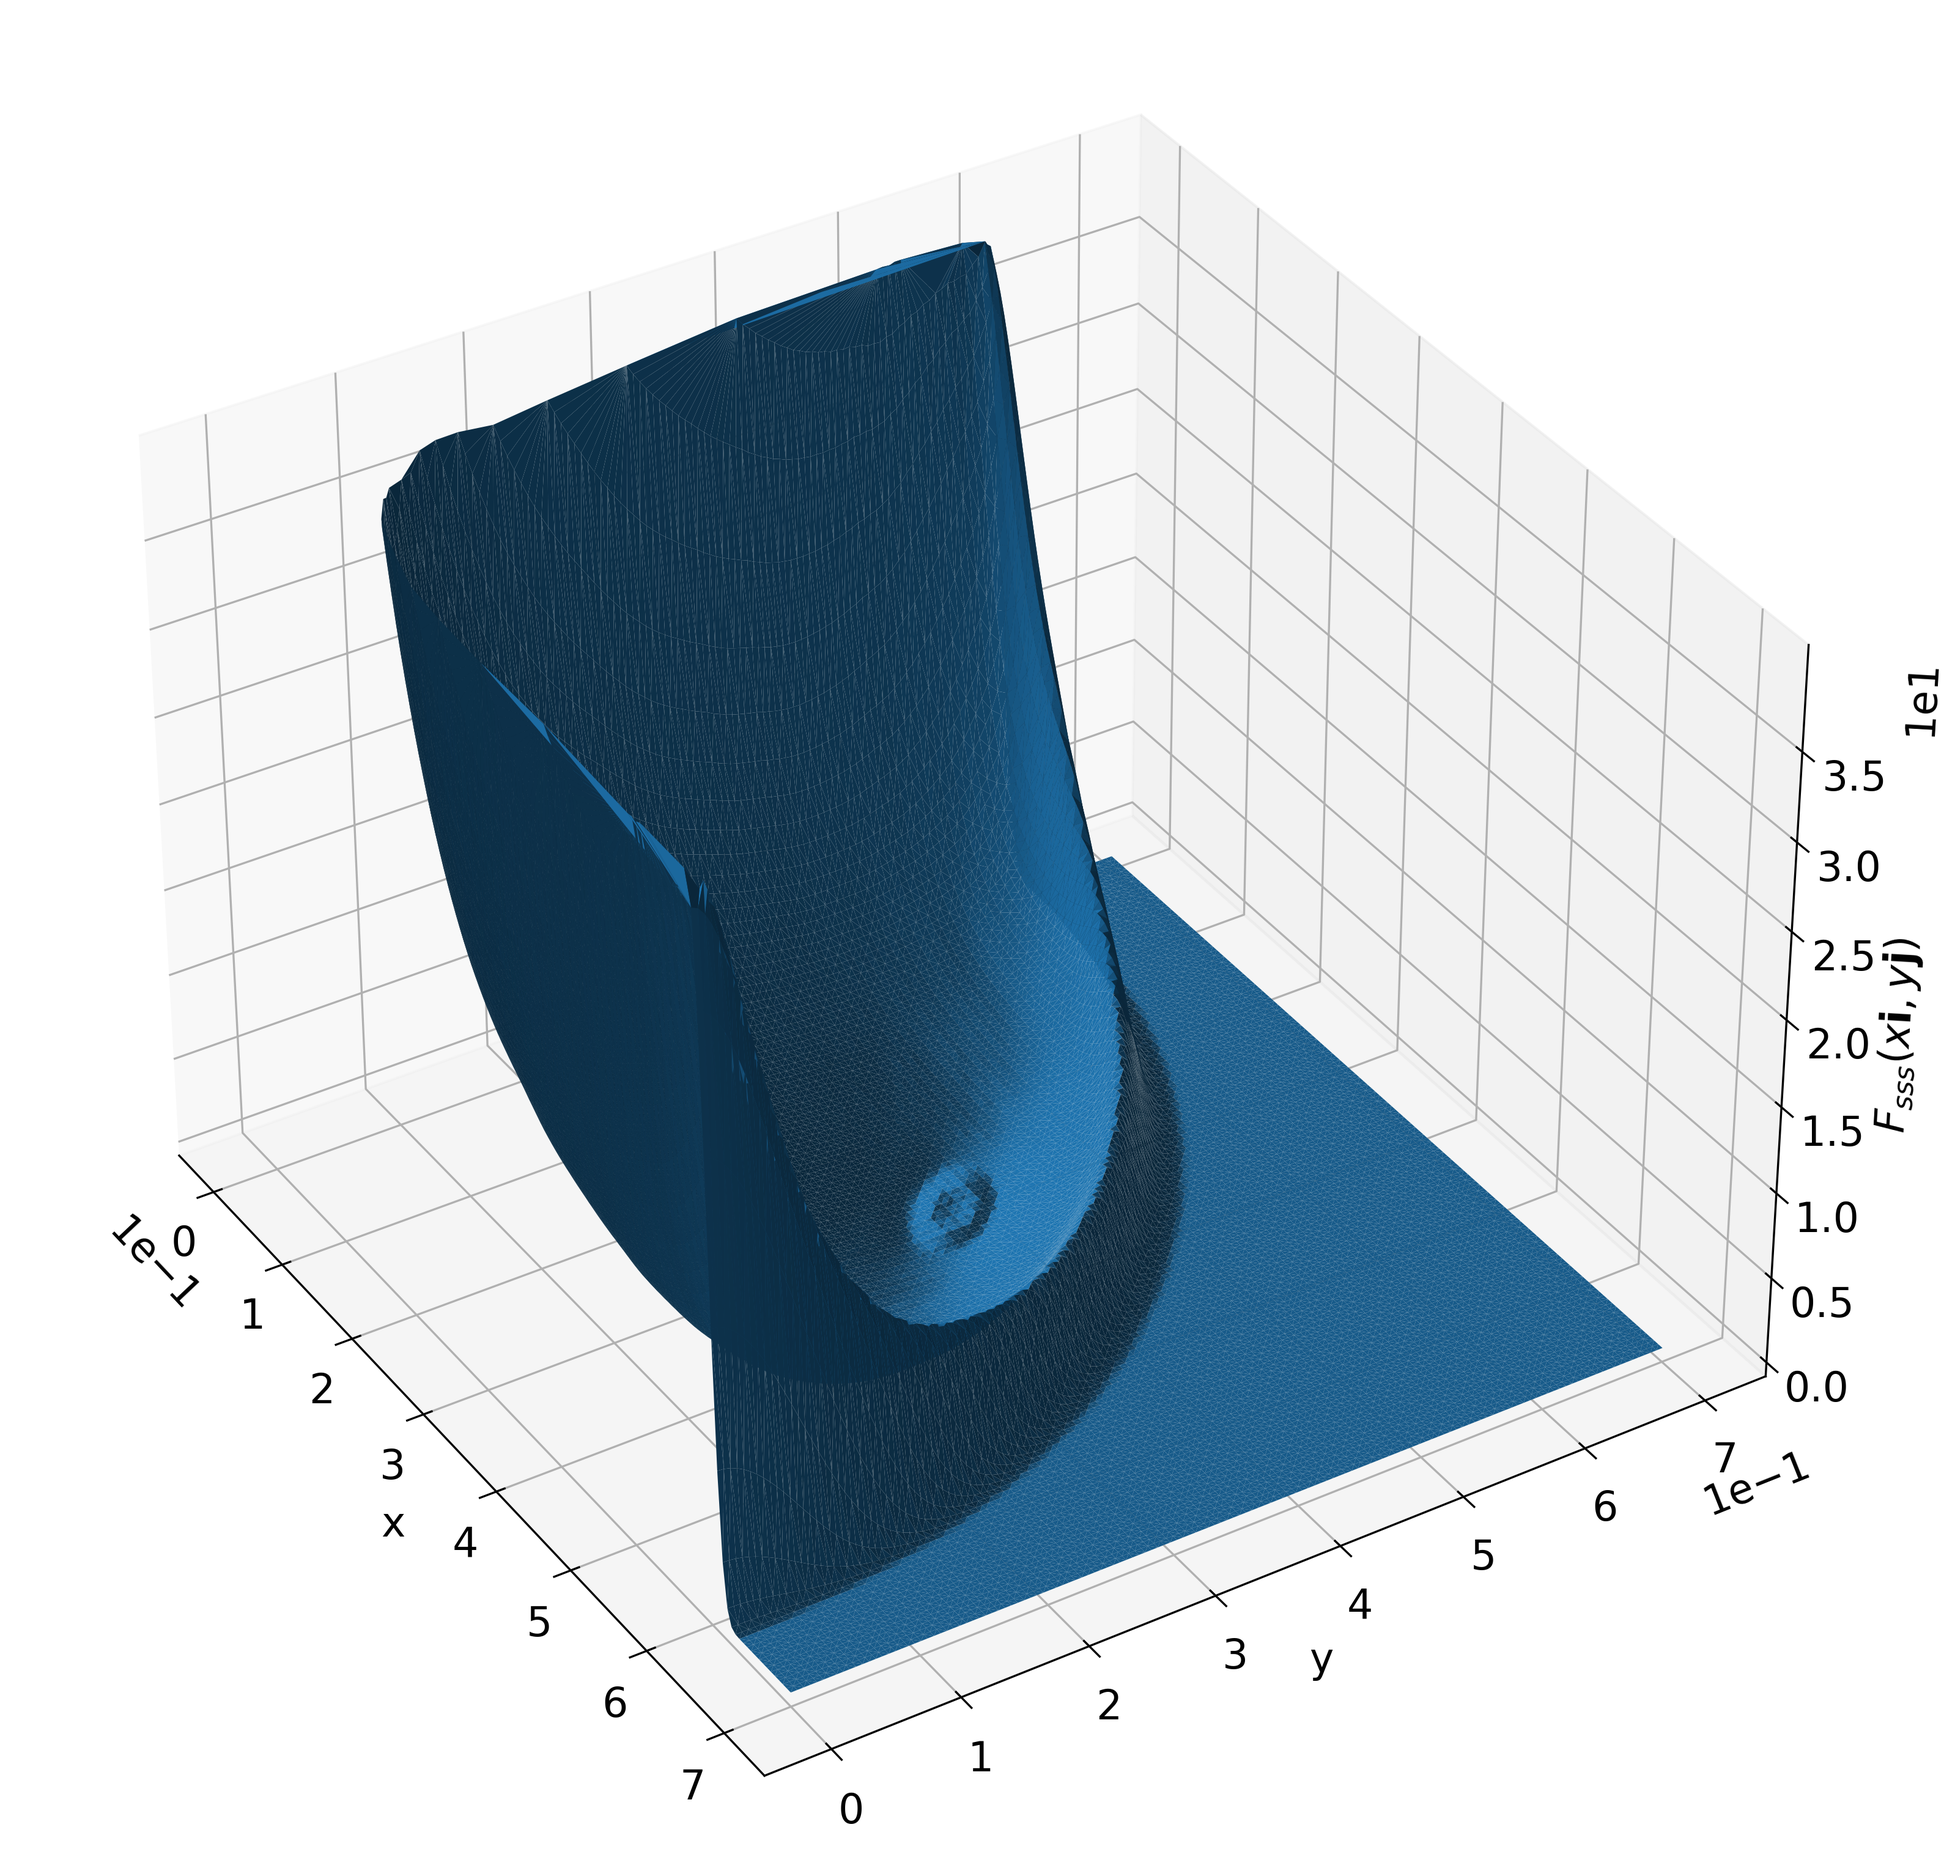
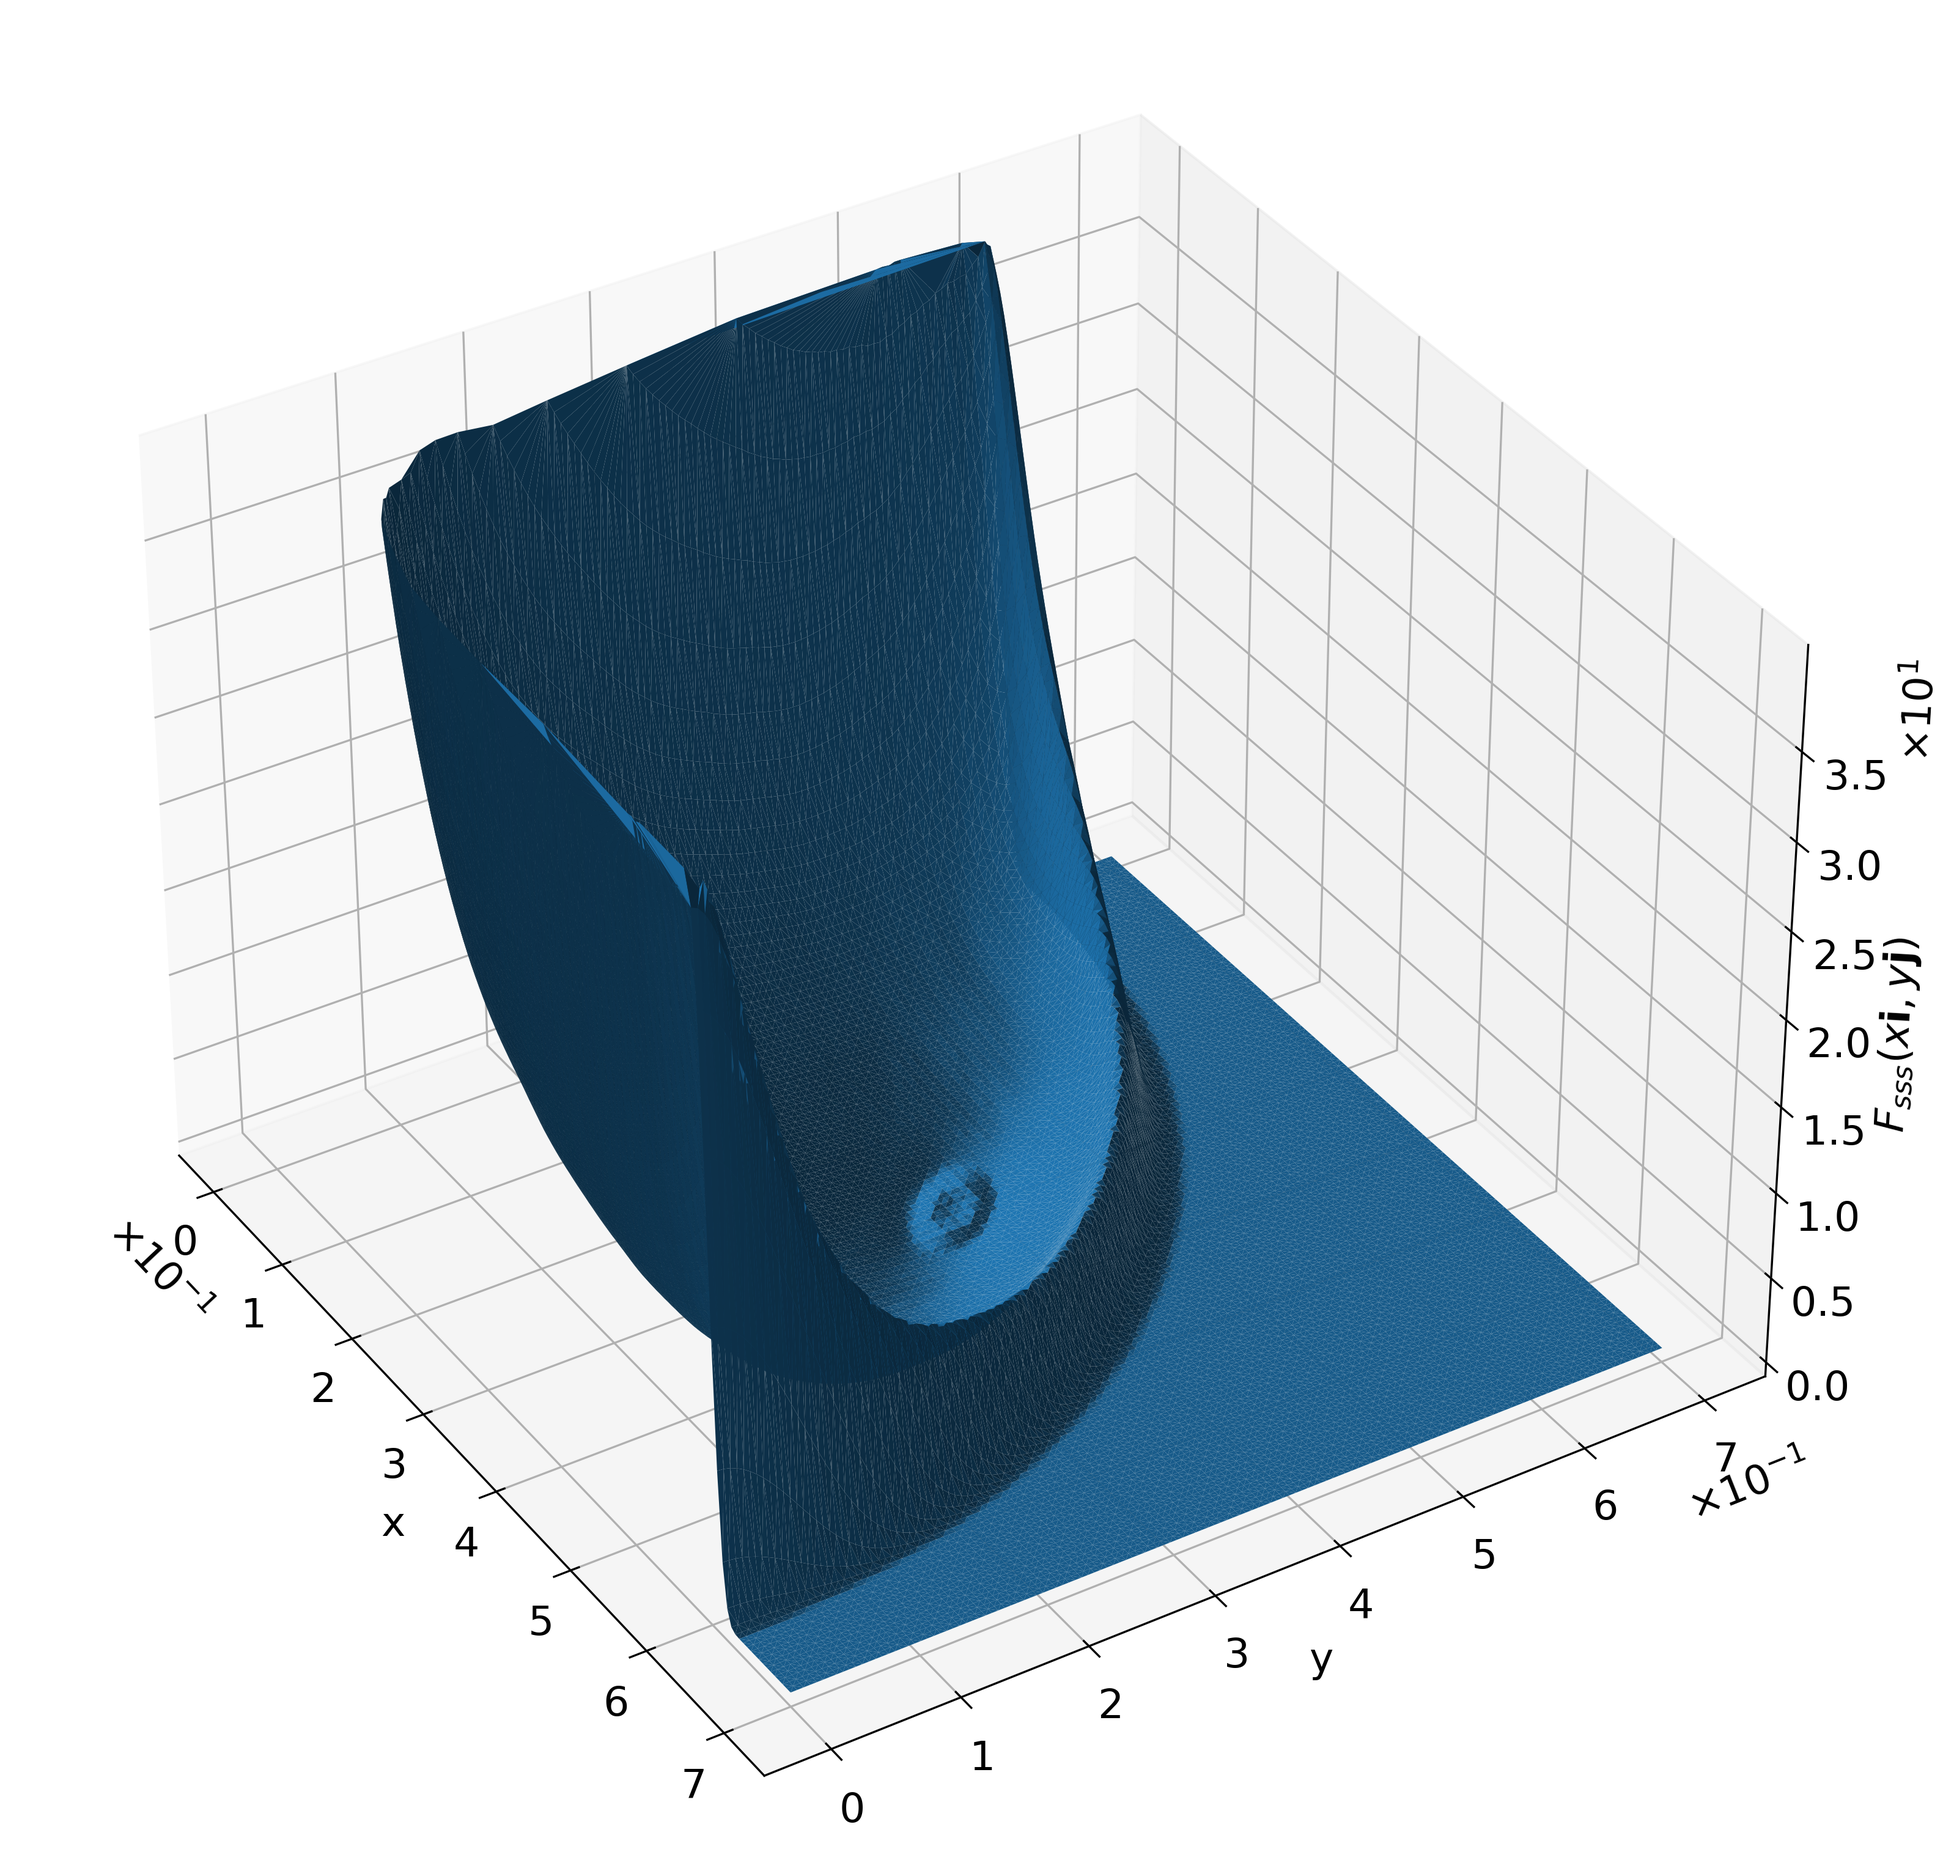
Update plots

diff --git a/paper.tex b/paper.tex
@@ -747,11 +747,11 @@ with different resolution with a theory is shown on \cref{fig:fss-disk}.
     \includegraphics[width=0.45\linewidth]{images/fss-disk-3x3.png}
     \label{fig:fss-disk-3x3}}
   \hfill
-  \subfigure[$5\times 5$ kernel $H'$]{
+  \subfigure[$7\times 7$ kernel $H'$]{
     \includegraphics[width=0.45\linewidth]{images/fss-disk-5x5.png}
     \label{fig:fss-disk-5x5}}
   \caption[]{Plot of surface-surface function for a disk with radius
-    $R = 0.334$. Resolution of the image varies from $100\times 100$ pixels to
+    $R = 0.0334$. Resolution of the image varies from $100\times 100$ pixels to
     $3100\times 3100$.}
   \label{fig:fss-disk}
 \end{figure*}
@@ -800,7 +800,7 @@ comparison is on \cref{fig:fss-blob}.
     \includegraphics[width=0.45\linewidth]{images/fss-blob-3x3.png}
     \label{fig:fss-blob-3x3}}
   \hfill
-  \subfigure[$5\times 5$ kernel $H'$]{
+  \subfigure[$7\times 7$ kernel $H'$]{
     \includegraphics[width=0.45\linewidth]{images/fss-blob-5x5.png}
     \label{fig:fss-blob-5x5}}
   \caption[]{Plot of the surface-surface function for the blob on
@@ -834,7 +834,7 @@ comparison between two algorithms is on \cref{fig:fss-ellipses}.
     \includegraphics[width=0.45\linewidth]{images/fss-ellipses-3x3.png}
     \label{fig:fss-ellipses-3x3}}
   \hfill
-  \subfigure[$5\times 5$ kernel $H'$]{
+  \subfigure[$7\times 7$ kernel $H'$]{
     \includegraphics[width=0.45\linewidth]{images/fss-ellipses-5x5.png}
     \label{fig:fss-ellipses-5x5}}
   \caption[]{Plot of the surface-surface function for ellipses on

diff --git a/scripts&data/ball.py b/scripts&data/ball.py
@@ -28,12 +28,12 @@ plt.figure(figsize = (10, 8), dpi = 300)
 plt.rc('font', size = 18)
 
 x = np.linspace(0, 0.5, 1000)
-plt.plot(np.linspace(0, 0.5, data3.size), data3 * 450**2, 'b', linewidth = 1.2)
-plt.plot(np.linspace(0, 0.5, data5.size), data5 * 450**2, 'g', linewidth = 1.2)
-plt.plot(x, ss(x, R), 'r', linewidth = 1.2)
+plt.plot(x, ss(x, R))
+plt.plot(np.linspace(0, 0.5, data3.size), data3 * 450**2)
+plt.plot(np.linspace(0, 0.5, data5.size), data5 * 450**2)
 plt.ylim([0, 10])
 plt.xlim([0.03, 0.5])
 plt.xlabel('$r$')
 plt.ylabel('$F_{ss}(r)$')
-plt.legend(['Filter 3x3', 'Filter 5x5', 'Therory'])
-plt.savefig('../images/ball-3d-ss.png')
+plt.legend(['Therory', 'Filter $H$', "Filter $H'$"])
+plt.savefig('../images/ball-3d-ss.png', bbox_inches = 'tight')

diff --git a/scripts&data/plot-ss.py b/scripts&data/plot-ss.py
@@ -18,8 +18,8 @@ xs = np.linspace(0, 0.5, 1000)
 plt.xlim([0, 0.1])
 plt.ylim([0, 4])
 plt.plot(xs, ss(xs, 0.0334), linewidth = 1.2)
-plt.ticklabel_format(axis = "x", scilimits = (0, 0))
+plt.ticklabel_format(axis = "x", scilimits = (0, 0), useMathText = True)
 plt.legend(legend + ['Theory'])
-plt.xlabel('Correlation length $r$, m')
-plt.ylabel('$F_{ss}(r)$, $m^{-2}$')
+plt.xlabel('Correlation length $r$')
+plt.ylabel('$F_{ss}(r)$')
 plt.savefig('../images/fss-disk-3x3.png')

diff --git a/scripts&data/plot-sss.py b/scripts&data/plot-sss.py
@@ -18,5 +18,5 @@ ax.plot_trisurf(x[indices], y[indices], julia[indices])
 ax.set_xlabel('x')
 ax.set_ylabel('y')
 ax.set_zlabel("$F_{sss}(x\mathbf{i}, y\mathbf{j})$")
-ax.ticklabel_format(scilimits = (0, 0))
+ax.ticklabel_format(scilimits = (0, 0), useMathText = True)
 plt.savefig('../images/ball-sss.png', bbox_inches = 'tight')

diff --git a/scripts&data/plot-sss-error.py b/scripts&data/plot-sss-error.py
@@ -28,5 +28,5 @@ ax.plot_trisurf(x[indices], y[indices], error[indices])
 ax.set_xlabel('x')
 ax.set_ylabel('y')
 ax.set_zlabel('Relative error')
-ax.ticklabel_format(scilimits = (0, 0))
+ax.ticklabel_format(scilimits = (0, 0), useMathText = True)
 plt.savefig('../images/ball-sss-error.png', bbox_inches = 'tight')

diff --git a/scripts&data/filter-comparison.py b/scripts&data/filter-comparison.py
@@ -16,4 +16,4 @@ plt.plot(data[:,0], data[:,2])
 plt.xlabel('$\phi$')
 plt.ylabel('$1/\sin \phi$')
 plt.legend(['Exact value', 'Approximation by $H$', "Approximation by $H'$"])
-plt.savefig('../images/filter-comparison.png')
+plt.savefig('../images/filter-comparison.png', bbox_inches = 'tight')
